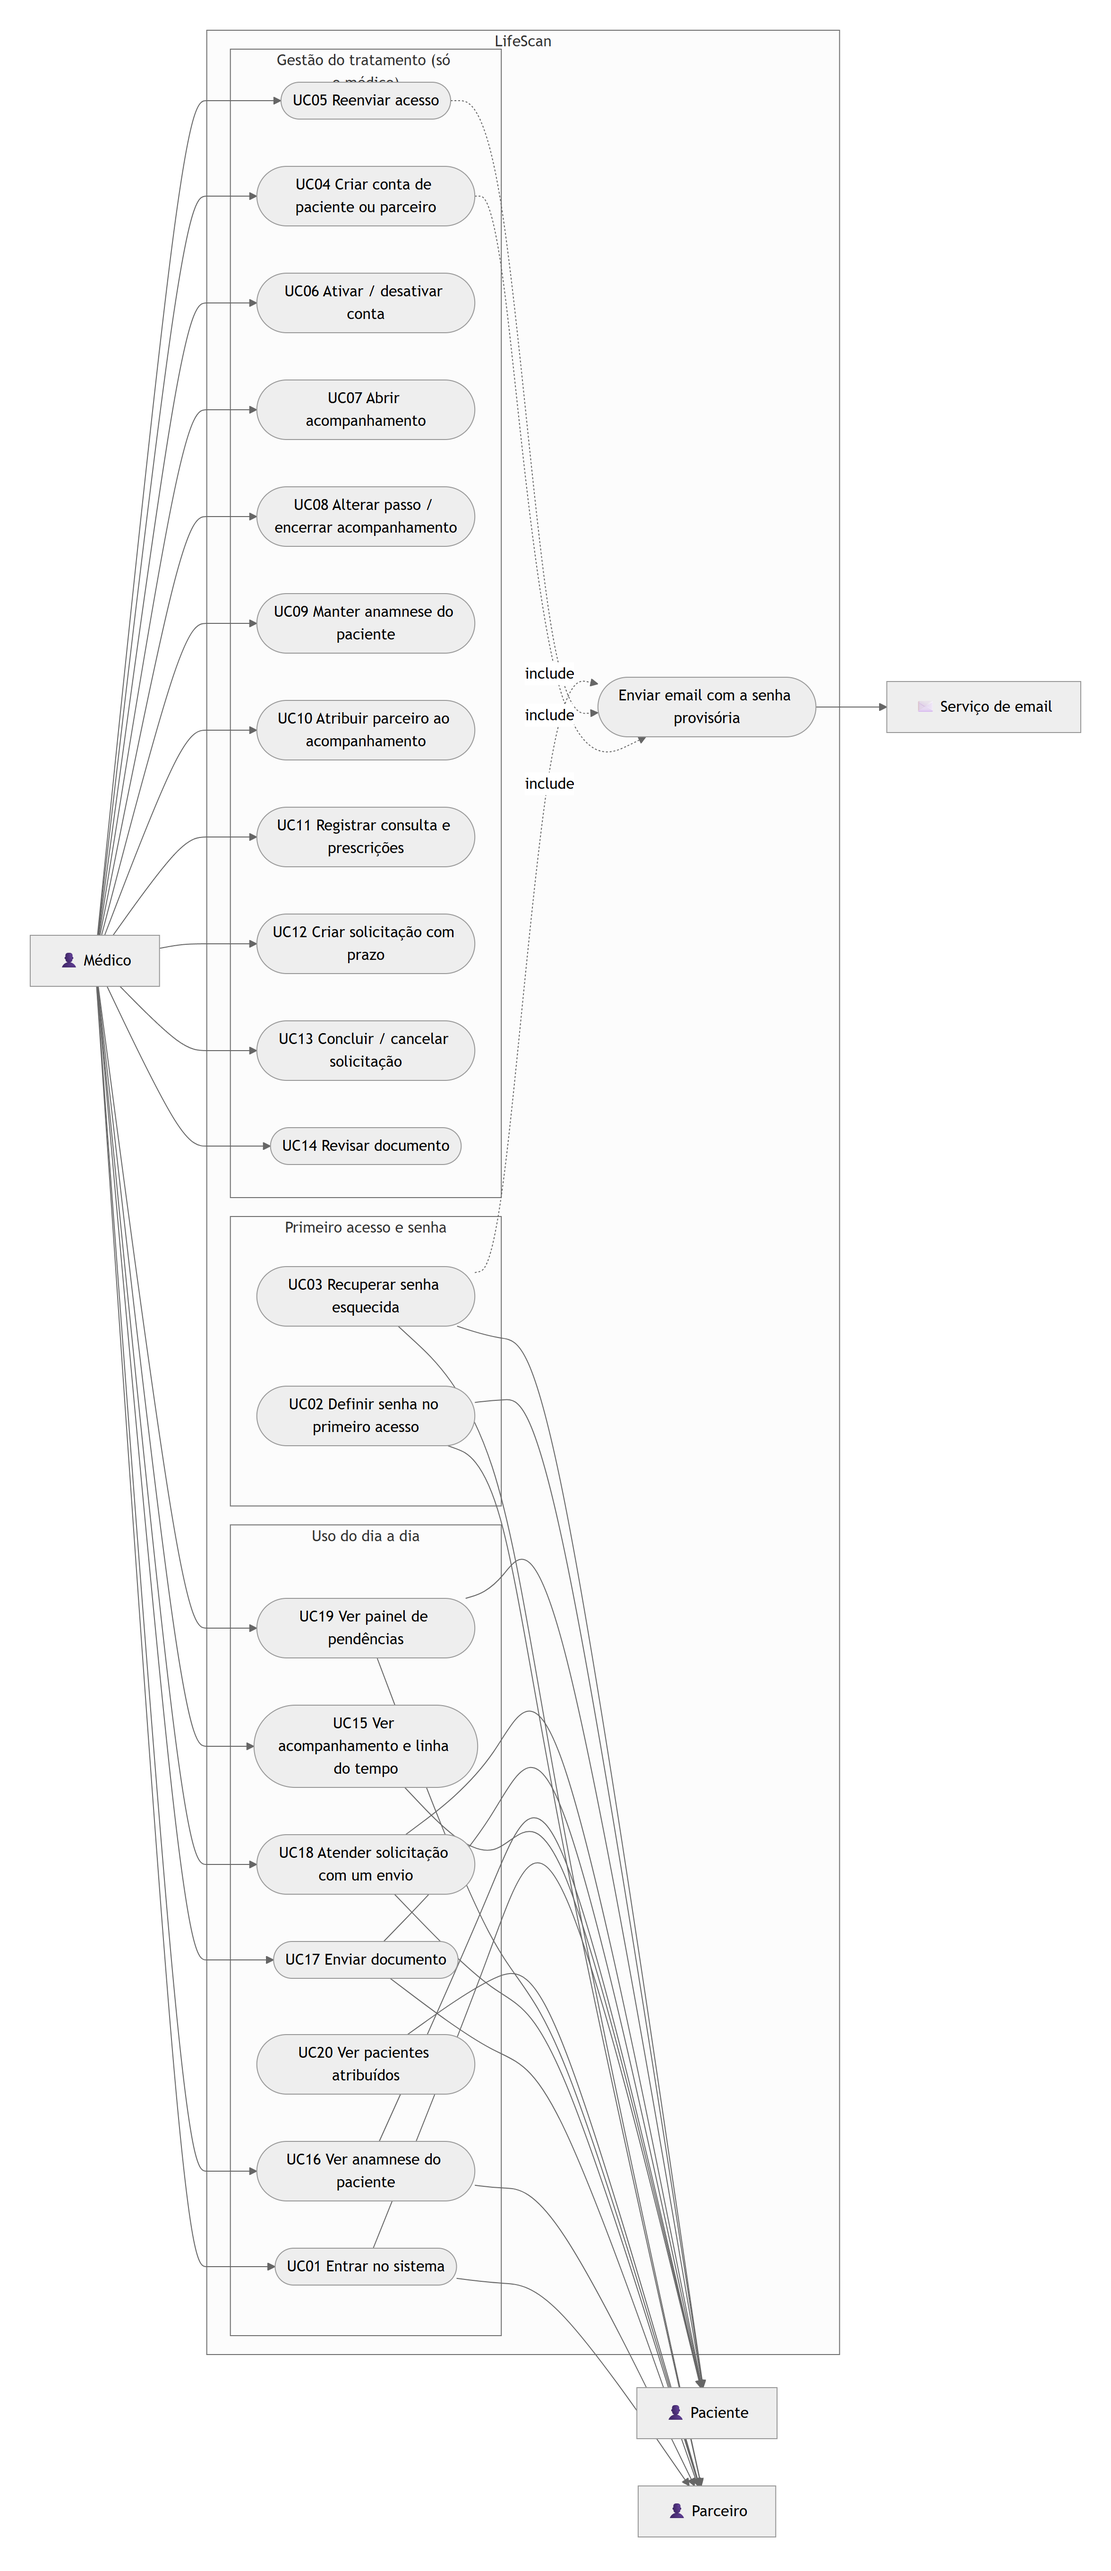
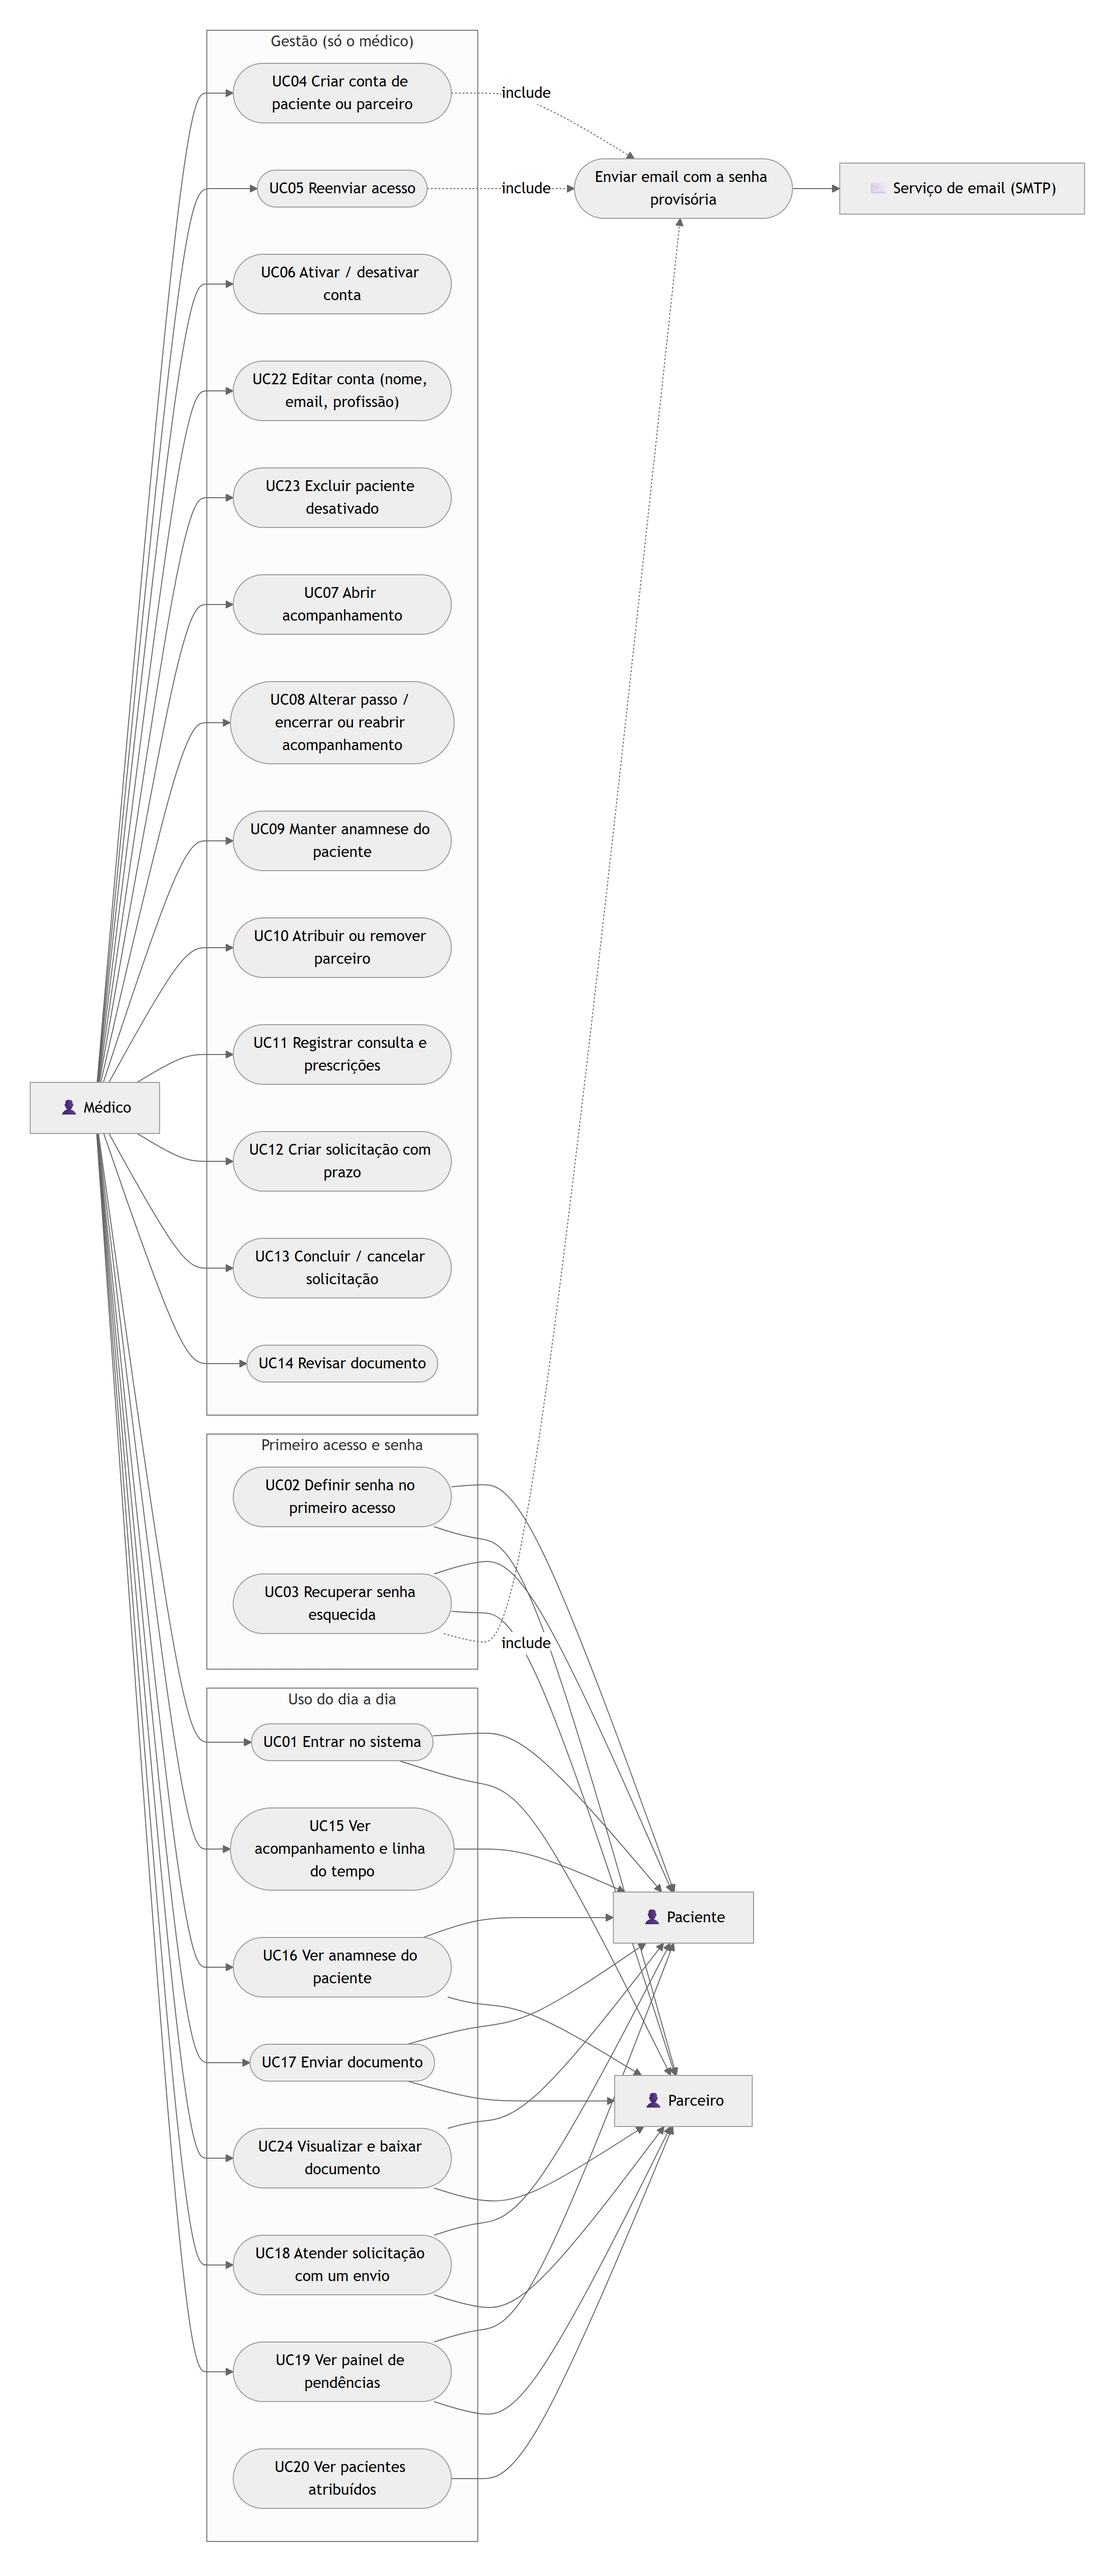
Atualiza o diagrama de casos de uso
- Novos casos de uso: editar conta (UC22), excluir paciente desativado (UC23)
  e visualizar/baixar documento (UC24)
- UC08 e UC10 cobrem reabrir o acompanhamento e remover parceiro
- Serviço de email indicado como SMTP
- Layout reorganizado: sem o quadro externo, paciente e parceiro ficam à direita

diff --git a/docs/diagramas.md b/docs/diagramas.md
@@ -302,6 +302,8 @@ erDiagram
 O Mermaid não tem um tipo próprio para casos de uso; o fluxograma abaixo segue o mesmo formato.
 O médico fica à esquerda; paciente e parceiro, à direita. O paciente não tem o UC20, e o parceiro
 não tem o UC15 (ele não vê a linha do tempo, as consultas nem os documentos de outras pessoas).
+No UC24, o parceiro só visualiza e baixa os documentos que ele mesmo enviou. O UC23 só vale para
+paciente desativado e sem histórico.
 
 ![Diagrama de casos de uso](diagramas/casos-de-uso.png)
 
@@ -309,18 +311,23 @@ não tem o UC15 (ele não vê a linha do tempo, as consultas nem os documentos d
 flowchart LR
     M["👤 Médico"]
 
-    subgraph LifeScan
-        direction TB
+        subgraph Senha["Primeiro acesso e senha"]
+            direction TB
+            UC02(["UC02 Definir senha no primeiro acesso"])
+            UC03(["UC03 Recuperar senha esquecida"])
+        end
 
-        subgraph Gestao["Gestão do tratamento (só o médico)"]
+        subgraph Gestao["Gestão (só o médico)"]
             direction TB
             UC04(["UC04 Criar conta de paciente ou parceiro"])
             UC05(["UC05 Reenviar acesso"])
             UC06(["UC06 Ativar / desativar conta"])
+            UC22(["UC22 Editar conta (nome, email, profissão)"])
+            UC23(["UC23 Excluir paciente desativado"])
             UC07(["UC07 Abrir acompanhamento"])
-            UC08(["UC08 Alterar passo / encerrar acompanhamento"])
+            UC08(["UC08 Alterar passo / encerrar ou reabrir acompanhamento"])
             UC09(["UC09 Manter anamnese do paciente"])
-            UC10(["UC10 Atribuir parceiro ao acompanhamento"])
+            UC10(["UC10 Atribuir ou remover parceiro"])
             UC11(["UC11 Registrar consulta e prescrições"])
             UC12(["UC12 Criar solicitação com prazo"])
             UC13(["UC13 Concluir / cancelar solicitação"])
@@ -333,29 +340,23 @@ flowchart LR
             UC15(["UC15 Ver acompanhamento e linha do tempo"])
             UC16(["UC16 Ver anamnese do paciente"])
             UC17(["UC17 Enviar documento"])
+            UC24(["UC24 Visualizar e baixar documento"])
             UC18(["UC18 Atender solicitação com um envio"])
             UC19(["UC19 Ver painel de pendências"])
             UC20(["UC20 Ver pacientes atribuídos"])
         end
 
-        subgraph Senha["Primeiro acesso e senha"]
-            direction TB
-            UC02(["UC02 Definir senha no primeiro acesso"])
-            UC03(["UC03 Recuperar senha esquecida"])
-        end
-
         UC21(["Enviar email com a senha provisória"])
-    end
 
     P["👤 Paciente"]
     R["👤 Parceiro"]
-    E["✉ Serviço de email"]
+    E["✉ Serviço de email (SMTP)"]
 
-    M --- UC04 & UC05 & UC06 & UC07 & UC08 & UC09 & UC10 & UC11 & UC12 & UC13 & UC14
-    M --- UC01 & UC15 & UC16 & UC17 & UC18 & UC19
+    M --- UC04 & UC05 & UC06 & UC22 & UC23 & UC07 & UC08 & UC09 & UC10 & UC11 & UC12 & UC13 & UC14
+    M --- UC01 & UC15 & UC16 & UC17 & UC24 & UC18 & UC19
 
-    UC01 & UC15 & UC16 & UC17 & UC18 & UC19 --- P
-    UC01 & UC16 & UC17 & UC18 & UC19 & UC20 --- R
+    UC01 & UC15 & UC16 & UC17 & UC24 & UC18 & UC19 --- P
+    UC01 & UC16 & UC17 & UC24 & UC18 & UC19 & UC20 --- R
     UC02 & UC03 --- P
     UC02 & UC03 --- R
 
